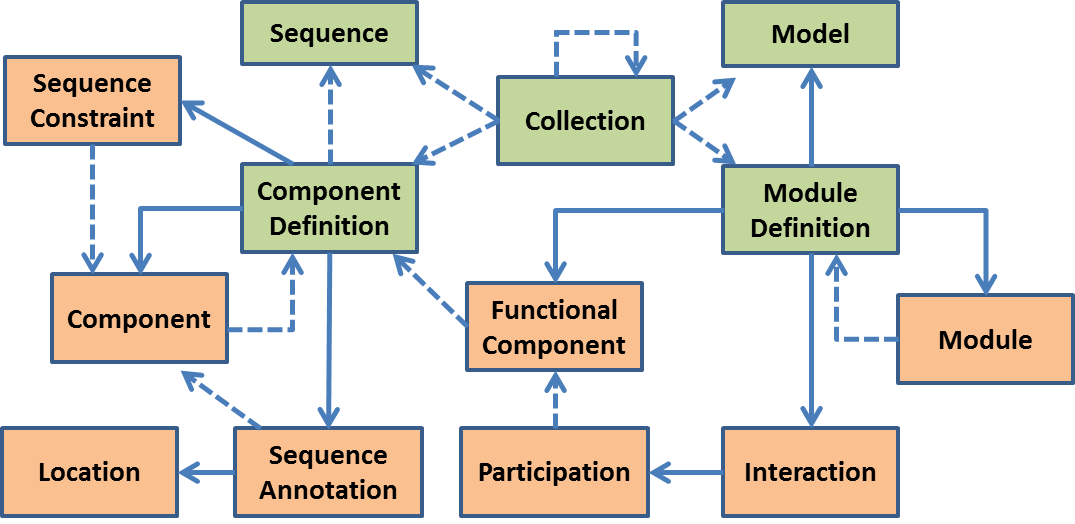
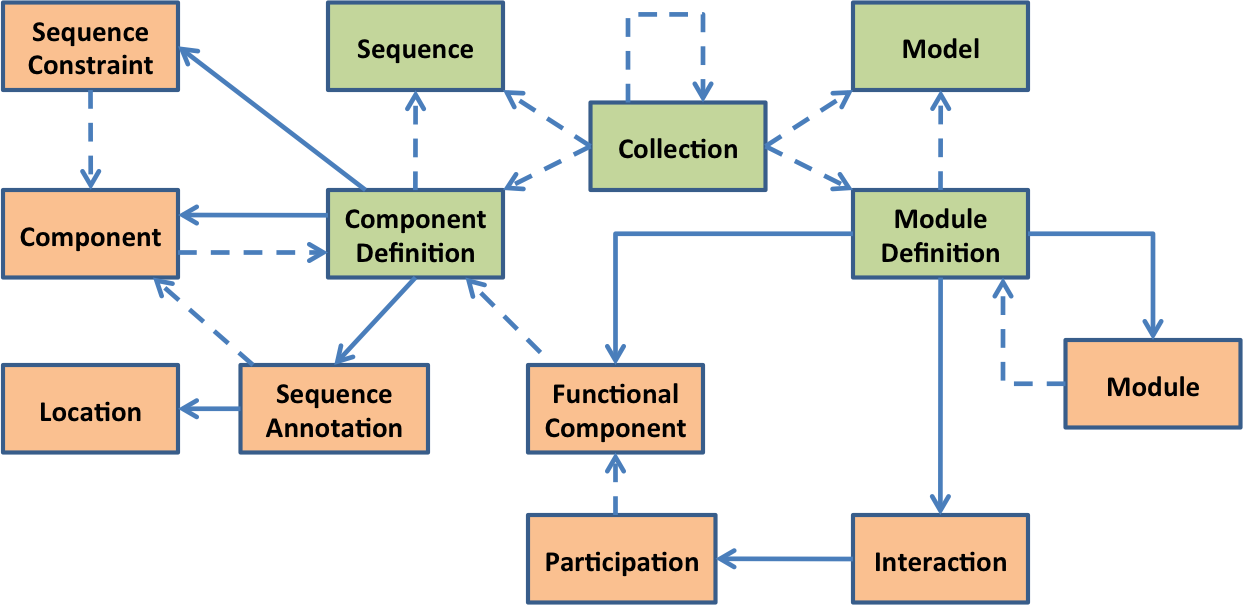
Update on Overleaf.

diff --git a/overview.tex b/overview.tex
@@ -2,57 +2,42 @@
 \section{Overview of SBOL}
 % % -----------------------------------------------------------------------------
 
-\LDtodo{under construction....
+\Rtodo{I took a stab at revising this especially in explaining Figure 2. Needs review.  -CJM}
 
-
-The only content to keep is some version of Figure 2, -- jhg }
-
-\Rtodo{I went through and did some light editing to the text. Excellent job John! I also added some references that were needed in the text - KC }
-
-Synthetic biology designs can be described using both structural and functional terms:
+Synthetic biology designs can be described using:
 \begin{itemize}
-\item We can describe the physical structure of the design, e.g., a set of sequences or information about chemical makeup.
-\item We can describe the functional roles of the design. Such a description includes both the overall function, as well as the ways that components might interact with each other.
+\item Structural terms, e.g., a set of annotated sequences or information about chemical makeup.
+\item Functional terms, e.g., the way that components might interact with each other and the overall behavior.
 \end{itemize}
-In broad strokes, SBOL 1.1 focuses on physical, structural information, whereas SBOL 2.0 includes functional aspects. The physical information about a designed genetic circuit includes the order of its constituents and their descriptions. The exact locations of these constituents and their sequences allow genetic circuits to be defined unambiguously, and reused in other designs. SBOL 2.0 extends v1.1 in several ways: it allows for functional descriptions of the design and its interaction, and it extends physical descriptions to include entities beyond DNA sequences. 
+In broad strokes, SBOL 1.1 focuses on physical, structural information, whereas SBOL 2.0 includes functional aspects. The physical information about a designed genetic circuit includes the order of its constituents and their descriptions. The exact locations of these constituents and their sequences allow genetic circuits to be defined unambiguously, and reused in other designs. SBOL 2.0 extends SBOL 1.1 in several ways: it extends physical descriptions to include entities beyond DNA sequences, and it allows for functional descriptions of the design. 
 
 As an example, consider the design of an expression cassette, such as found in the plasmid pUC18 \cite{L08752.1}, a device that is designed to detect successful versus unsuccessful molecular cloning. As an overall system, the device is designed to grow either blue-colored (unsuccessful) or white-colored (successful) colonies in the presence of IPTG and the chemical X-gal. Internally, the device has a number of parts, including a promoter, the lac repressor binding site, and the lacZ coding sequence. These parts have specific component-level interactions with IPTG and X-gal, as well as native host gene products, transcriptional and translational machinery that collectively lead to the desired system-level behavior. 
 
 Understanding how such a device works within the context of a host and how it might be adapted to new experimental applications is currently passed on through working with fellow scientists or reading articles in papers and books. But there is no systematic way of communicating the integration of sequence with functional design, so users typically have to look in many different places to develop an understanding of this system.  
 The SBOL standard allows designers to describe these functional characteristics, and to connect them to the physical parts and sequences that make up the design. 
 
-SBOL includes main classes that match the structural/physical distinction above:
+SBOL includes two main classes that match the structural/functional distinction above:
 \begin{itemize}
 \item The \sbol{ComponentDefinition} object describes the physical aspects of the designed system, such as the DNA or RNA sequences and the physical relationships among sub-components.
 \item The \sbol{ModuleDefinition} object describes the local interactions of the designed system, such as specific binding relationships, and repression and activation relationships. 
 \end{itemize}
 
-Figure 1 shows a simplified view of these classes, as well as other helper classes in SBOL. To continue with the pUC18 example, the description would begin by creating a top-level \sbol{ModuleDefinition}. This object could then point to a \sbol{Model} object if it exists, for example, an SBML model of the behavior of this design. The \sbol{ModuleDefinition} would also include a number of \sbol{ComponentDefinition} objects. These would specify the structural elements that make up the cassette. Finally, the \sbol{ModuleDefinition} could specify \sbol{Interaction} objects that describe any internal functional relationships among components. 
-
-\Rtodo{I think the paragraph above and below should be weaved together.  Also, I think you should start with the structural part then the functional part.  You should highlight that the structural part is largely 1.1 classes though they are extended.  The functional part is completely new.}
+Figure 1 shows a simplified view of these classes, as well as other helper classes in SBOL. To continue with the pUC18 example, the description would begin by creating a top-level \sbol{ModuleDefinition}.  The \sbol{ModuleDefinition} specifies the structural elements that make up the cassette by referencing a number of \sbol{ComponentDefinition} objects. These would include the DNA component for the promoter and the small molecule component for IPTG, for example.  
+The \sbol{ComponentDefinition} objects can be organized hierarchically.  For example, the plasmid \sbol{ComponentDefinition} may reference \sbol{ComponentDefinition}s for the promoter, coding sequence, etc.  
+Each \sbol{ComponentDefinition} object can also include the actual \sbol{Sequence} information (if available), as well as \sbol{SequenceAnnotation} objects that identify the locations of the promoters, coding sequences, etc., on the \sbol{Sequence}.  
+In order to specify functional information, the \sbol{ModuleDefinition} can specify \sbol{Interaction} objects that describe any qualitative relationships among components, such as how IPTG and X-gal interact with the gene projects.  Finally, \sbol{ModuleDefinition} object can point to a \sbol{Model} object that provides a reference to a complete quantitative model using a language such as SBML, CellML, Matlab, etc.  Finally, all the of elements of the genetic design can be grouped together within a \sbol{Collection}.
 
 \begin{figure}[ht]
 \begin{center}
 \includegraphics[scale=0.7]{images/OverviewFigforSpec-v6.png}
-\caption{Main classes of information represented by the SBOL standard, and their relationships.  Red boxes are classes from the 1.1 version of SBOL that focused on structure, whereas blue classes are some of the new classes that support the functional aspects of designs.}
+\caption{Main classes of information represented by the SBOL standard, and their relationships.  Red boxes are classes from the SBOL 1.1 that focused on structure, whereas blue classes are some of the new classes that support the functional aspects of designs.}
 \label{images:overview1}
 \end{center}
 \end{figure}
 
-On the structural side, the \sbol{ComponentDefinition} objects could be a simple flat list, or they could be organized into sub-components---note that both \sbol{ModuleDefinition} and \sbol{ComponentDefinition} can point to themselves, allowing for arbitrary nesting.
-\sbol{ComponentDefinition} objects also include the actual \sbol{Sequence} information (if available) as well as \sbol{SequenceAnnotation} objects that name the promoters, coding sequences, etc., as well as provide location information. 
+% SBOL aims to facilitate the communication and reuse of synthetic biology designs. Given that these designs leverage biochemical knowledge and that they ultimately affect biological systems, it is important that SBOL interacts well with other relevant standards and resources, such as GenBank \cite{genbank}, SwissProt \cite{swissprot}, SBML \cite{SBML}, ChEBI\cite{chebi}, or the Sequence Ontology \cite{so}. Thus, SBOL leverages semantic web technologies, using RDF as a serialization format, and URIs (\emph{Universal Resource Identifiers}) for its objects. URIs allow for direct and un-ambiguous reuse of designs---if a designer in Newcastle wishes to refer to a particular design built in California, he or she can simply name the URI of the ModuleDefinition that describes that design. 
 
-% The high-level view of Figure 1 is meant as a simple prelude to the full specification of SBOL that we provide in the next section. Importantly, our specification uses the UML (Unified Modeling Language) and Figure 1 is NOT a UML diagram. Figure 2 shows... 
-
-\Rtodo{I think the reader does not even know we will be talking about UML yet - I don't see an expectation that this should be XML - KC, Agreed, text above seems unnecessary here.}
-
-\Rtodo{Do you even need Figure 2 at this point? We've provided a high level overview, but not gone into details. Do we need to? - KC Yes, we do need the more detailed description here.  This section is meant to ease the readers into the data model.  It is being done in stages with the second diagram expanding the details.  The main point of the expanded figure will be to introduce the "tricky" concept of instantiations which is very important going forward.}
-
-\Ctodo{Need explanation of Figure 2 here.  Also, need Figure 2 to be updated to follow style of Figure 1.}
-
-SBOL aims to facilitate the communication and reuse of synthetic biology designs. Given that these designs leverage biochemical knowledge and that they ultimately affect biological systems, it is important that SBOL interacts well with other relevant standards and resources, such as GenBank \cite{genbank}, SwissProt \cite{swissprot}, SBML \cite{SBML}, ChEBI\cite{chebi}, or the Sequence Ontology \cite{so}. Thus, SBOL leverages semantic web technologies, using RDF as a serialization format, and URIs (\emph{Universal Resource Identifiers}) for its objects. URIs allow for direct and un-ambiguous reuse of designs---if a designer in Newcastle wishes to refer to a particular design built in California, he or she can simply name the URI of the ModuleDefinition that describes that design. 
-
-In sum, we hope that the SBOL standard will enable sharing of synthetic biology designs across the web, and allow developers to more easily build up rich, complex designs by re-using the work of others. 
+% In sum, we hope that the SBOL standard will enable sharing of synthetic biology designs across the web, and allow developers to more easily build up rich, complex designs by re-using the work of others. 
 
 
 % Figure 2 extends this view to provide a more detailed view of these classes. 
@@ -62,12 +47,13 @@ In sum, we hope that the SBOL standard will enable sharing of synthetic biology 
 % The physical structure of an element is represented with a \sbol{ComponentDefinition}, often corresponding to a particular \sbol{Sequence} (e.g., DNA, RNA, amino acids), and with its structure further described in terms of the smaller \sbol{Component} instances contained within, and their absolute and relative positions within the component.
 % Functional relationships are represented with a \sbol{ModuleDefinition}, often also described by some \sbol{Model}, and with its structure further described in terms of the smaller \sbol{Module} instances contained within, as well as particular components (designated \sbol{FunctionalComponent} to indicate their use in defining a module), and their interactions.
 
-\Ctodo{SequenceConstraint was in a simpler form in 1.1.  Actually though I think maybe we should change color scheme in this one to highlight TopLevel versus Child as before as this is an important concept for the overview.  One minor issue is some issues are crooked.}
+Figure~\ref{images:overview2} provides a more detailed view the the class structure for the SBOL 2.0 data model.  The main, or \emph{top level} classes, are \sbol{Collection}, \sbol{ComponentDefinition}, sbol{Sequence}, \sbol{ModuleDefinition}, and \sbol{Model}.  The key distinction of these classes is that they can stand alone and be referenced by other top level objects (see the dashed arrows between the green boxes).  The purpose of these classes is described above.  Each of these classes is assisted in their purpose by several \emph{child} classes.  The key distinction of a child object is that it is owned by its parent object, and if that parent object is removed, so is the child object.  This ownership is indicated using the solid arrows in the figure.  For example, a \sbol{ComponentDefinition} owns its \sbol{SequenceAnnotation}s.  Another important distinction in this diagram are the additional additional \emph{instantiation} classes, \sbol{Component}, \sbol{FunctionalComponent}, and \sbol{Module}.  As described above, a \sbol{ModuleDefinition} may include instantiations of \sbol{ComponentDefinitions}.  These instantiations are called \sbol{FunctionalComponent}s.  Furthermore, \sbol{ModuleDefinition}s and \sbol{ComponentDefinition}s can be constructed hierarchically of instantiations of the same time, and these instantiations are called \sbol{Module}s and \sbol{Component}s, respectively.  Using a software analogy, a \sbol{ComponentDefinition} or \sbol{ModuleDefinition} are a class definition while a \sbol{Component}, \sbol{FunctionalComponent}, or \sbol{Module} are an object of that class type.  Finally, one last thing to notice is that child objects can be referenced.  For example, an \sbol{Interaction} is between \sbol{FunctionalComponent} object(s) referenced through the \sbol{Participation} class.  Since this is only a reference, if an \sbol{Interaction} is removed, its \sbol{Participation} objects would be removed but not the \sbol{FunctionalComponent}s that they refer to.  Similarly, \sbol{SequenceAnnotation}s and \sbol{SequenceConstraint}s (provide relative positioning information) only refer to the \sbol{Component}s that they provide positioning information for.
+
 
 \begin{figure}[ht]
 \begin{center}
 \includegraphics[scale=0.7]{images/OverviewFig2-v3.png}
-\caption{Main classes of information represented by the SBOL standard, and their relationships.  Green boxes are ``top level'' classes, while the other classes are in support of these classes. Solid arrows indicates "contains", whereas a dashed arrow indicates that one class refers to another.}
+\caption{Main classes of information represented by the SBOL standard, and their relationships.  Green boxes are ``top level'' classes, while the other classes are in support of these classes. Solid arrows indicates "contains", whereas a dashed arrow indicates that one class refers to an object of another class.}
 \label{images:overview2}
 \end{center}
 \end{figure}

diff --git a/apdx-validation.tex b/apdx-validation.tex
@@ -18,22 +18,17 @@ following symbols next to the rule numbers:
 
 \begin{description}
 
-\item[\hspace*{6.5pt}\vSymbol\vsp] A \vSymbolName indicates a
+\item[\hspace*{6.5pt}\vSymbol\vsp] A \vSymbolName indicates a strong
   REQUIRED condition for SBOL conformance. If a SBOL document does not follow this rule, it does not conform to the SBOL
   specification.  (Mnemonic intention behind the choice of symbol:
   ``This must be checked.'')
 
-\item[\hspace*{6.5pt}\cSymbol\csp] A \cSymbolName indicates a
-  \emph{recommendation} for consistency.  
-% If a SBOL document does not
-%  follow this rule, it is not considered strictly invalid as far as the
-%  SBOL specification is concerned; however, it indicates that the model contains a physical or conceptual inconsistency. 
-These rules should be followed, but they are difficult, if not  impossible, to check automatically. (Mnemonic intention behind the choice of symbol: ``This is a cause for warning.'')
+\item[\hspace*{6.5pt}\cSymbol\csp] A \cSymbolName indicates a weak
+  REQUIRED condition for SBOL conformance. While this rule MUST be followed, it is difficult, if not  impossible, for a machine to automatically check whether the rule has been followed. (Mnemonic intention behind the choice of symbol: ``This is a cause for warning.'')
 
 \item[\hspace*{6.5pt}\mSymbol\msp] A \mSymbolName indicates a 
-  RECOMMENDED condition for following best practices.  This rule is not strictly
-  a matter of SBOL encoding, but the recommendation comes from logical
-  reasoning.  If an SBOL document does not follow this rule, it is still a valid SBOL encoding, but may have degraded functionality in some tools.  (Mnemonic intention behind the choice of symbol: ``You're a star if you heed this.'')
+  RECOMMENDED condition for following best practices.  This rule is not strictly a matter of SBOL conformance, but its recommendation comes from logical
+  reasoning.  If an SBOL document does not follow this rule, it is still valid SBOL, but it may have degraded functionality in some tools.  (Mnemonic intention behind the choice of symbol: ``You're a star if you heed this.'')
 
 \end{description}
 
@@ -103,55 +98,54 @@ in the SBOL specification namespace.
 \subsubsection*{Rules for the \class{Sequence} class} 
 \setcounter{sbolCtr}{10401}
 
-\printValid{A \sbol{Sequence} object inherits all properties of a \sbol{TopLevel} object. (Reference: \sec{sec:Sequence})}
+\printValid{A \sbol{Sequence} MUST inherit all properties of the \sbol{TopLevel} class. (Reference: \sec{sec:Sequence})}
 
-\printValid{The \sbol{elements} is a REQUIRED property for all \sbol{Sequence} objects and has a data type of String. (Reference: \sec{sec:Sequence})}
+\printValid{The \sbol{elements} property of a \sbol{Sequence} is REQUIRED and MUST contain a \external{String}. (Reference: \sec{sec:Sequence})}
 
-\printValid{The \sbol{encoding} is a REQUIRED property for all \sbol{Sequence} objects and has a data type of \sbol{URI}. (Reference: \sec{sec:Sequence})}
+\printValid{The \sbol{encoding} property of \sbol{Sequence} is REQUIRED and MUST contain a \external{URI}. (Reference: \sec{sec:Sequence})}
 
-\printWarning{The \sbol{elements} format MUST be consistent with its specified \sbol{encoding}. (Reference: \sec{sec:Sequence})}
+\printWarning{The \sbol{encoding} property of a \sbol{Sequence} MUST contain a \external{URI} from \ref{tbl:sequence_encodings} if it is well-described by this \external{URI}. (Reference: \sec{sec:Sequence})}
 
-\printModeling{A DNA \sbol{Sequence} SHOULD use the IUPAC DNA encoding:\\ \url{http://www.chem.qmul.ac.uk/iubmb/misc/naseq.html}. (Reference: \sec{sec:Sequence})}
-
-\printModeling{A RNA \sbol{Sequence} SHOULD use the IUPAC RNA encoding:\\ \url{http://www.chem.qmul.ac.uk/iubmb/misc/naseq.html}. (Reference: \sec{sec:Sequence})}
-
-\printModeling{A protein \sbol{Sequence} SHOULD use the IUPAC Protein encoding:\\ \url{http://www.chem.qmul.ac.uk/iupac/AminoAcid/}. (Reference: \sec{sec:Sequence})}
-
-\printModeling{A small molecule \sbol{Sequence} SHOULD use the SMILES encoding:\\ \url{http://www.opensmiles.org/opensmiles.html}. (Reference: \sec{sec:Sequence})}
+\printWarning{The \sbol{elements} property of a \sbol{Sequence} MUST be consistent with its \sbol{encoding} property. (Reference: \sec{sec:Sequence})}
 
 \subsubsection*{Rules for the \class{ComponentDefinition} class} 
 \setcounter{sbolCtr}{10501}
 
-\printValid{A \sbol{ComponentDefinition} object inherits all properties of a \sbol{TopLevel} object. (Reference: \sec{sec:ComponentDefinition})}
+\printValid{A \sbol{ComponentDefinition} MUST inherit all properties of the \sbol{TopLevel} class. (Reference: \sec{sec:ComponentDefinition})}
 
-\printValid{The \sbolmult{types:CD}{types} property is a set of \sbol{URI}s, and it is REQUIRED to include at least one entry. (Reference: \sec{sec:ComponentDefinition})}
+\printValid{The \sbolmult{types:CD}{types} property of a \sbol{ComponentDefinition} is REQUIRED and MUST contain a non-empty set of \external{URI}s. (Reference: \sec{sec:ComponentDefinition})}
 
-\printValid{The \sbolmult{roles:CD}{roles} property is an OPTIONAL set of \sbol{URI}s.  (Reference: \sec{sec:ComponentDefinition})}
+\printWarning{Each \external{URI} contained by the \sbolmult{types:CD}{types} property of a \sbol{ComponentDefinition} MUST refer to an ontology term that describes the category of biochemical or physical entity that is represented by the \sbol{ComponentDefinition}. (Reference: \sec{sec:ComponentDefinition})}
 
-\printValid{The \sbol{components} property is an OPTIONAL set of \sbol{Component} objects.  (Reference: \sec{sec:ComponentDefinition})}
+\printWarning{All \external{URI}s contained by the \sbolmult{types:CD}{types} property of a \sbol{ComponentDefinition} MUST refer to synonymous ontology terms. (Reference: \sec{sec:ComponentDefinition})}
 
-\printValid{The \sbol{sequenceConstraints} property is an OPTIONAL set of \sbol{SequenceConstraint} objects.  (Reference: \sec{sec:ComponentDefinition})}
+\printWarning{The \sbolmult{types:CD}{types} property of a \sbol{ComponentDefinition} MUST contain a \external{URI} from \ref{tbl:componentdefinition_types} if it is well-described by this \external{URI}. (Reference: \sec{sec:ComponentDefinition})}
 
-\printValid{The \sbol{sequenceAnnotations} property is an OPTIONAL set of \sbol{SequenceAnnotation} objects.  (Reference: \sec{sec:ComponentDefinition})}
+\printValid{The \sbolmult{roles:CD}{roles} property of a \sbol{ComponentDefinition} is OPTIONAL and MAY contain a set of \sbol{URI}s. (Reference: \sec{sec:ComponentDefinition})}
 
-\printValid{The \sbol{sequences} property is an OPTIONAL set of \sbol{URI} references to \sbol{Sequence} objects.  (Reference: \sec{sec:ComponentDefinition})}
+\printWarning{Each \external{URI} contained by the \sbolmult{roles:CD}{roles} property of a \sbol{ComponentDefinition} MUST refer to an ontology term that clarifies the potential function of the \sbol{ComponentDefinition} in a biochemical or physical context. (Reference: \sec{sec:ComponentDefinition})}
 
-\printModeling{Each \sbol{URI} in the set of \sbol{sequences} SHOULD reference an equivalent \sbol{Sequence} object.  (Reference: \sec{sec:Sequence})}
+\printWarning{Each \external{URI} contained by the \sbolmult{roles:CD}{roles} property of a \sbol{ComponentDefinition} MUST refer to an ontology term that is consistent with its \sbolmult{types:CD}{types} property. (Reference: \sec{sec:ComponentDefinition})}
 
-\printWarning{A DNA \sbol{ComponentDefinition} MUST include the \sbol{URI}\\ 
-\url{http://www.biopax.org/release/biopax-level3.owl\#DnaRegion} 
-in the set of \sbolmult{types:CD}{types}.  (Reference: \sec{sec:ComponentDefinition})}
+\printModeling{The \sbolmult{roles:CD}{roles} provided in \ref{tbl:componentdefinition_roles} SHOULD apply to \sbol{ComponentDefinition} objects of the corresponding \sbolmult{types:CD}{types} listed in this table. (Reference: \sec{sec:ComponentDefinition})}
 
-\printWarning{A RNA \sbol{ComponentDefinition} MUST include the \sbol{URI}\\ 
-\url{http://www.biopax.org/release/biopax-level3.owl\#RnaRegion} in the set of \sbolmult{types:CD}{types}.  (Reference: \sec{sec:ComponentDefinition})}
+\printWarning{The \sbolmult{roles:CD}{roles} property of a \sbol{ComponentDefinition} MUST contain a \external{URI} from \ref{tbl:componentdefinition_roles} if it is well-described by this \external{URI}. (Reference: \sec{sec:ComponentDefinition})}
 
-\printWarning{A protein \sbol{ComponentDefinition} MUST include the \sbol{URI}\\ 
-\url{http://www.biopax.org/release/biopax-level3.owl\#Protein} in the set of \sbolmult{types:CD}{types}.  (Reference: \sec{sec:ComponentDefinition})}
+\printValid{The \sbol{sequences} property of a \sbol{ComponentDefinition} is OPTIONAL and MAY contain a set of \sbol{URI} references to \sbol{Sequence} objects. (Reference: \sec{sec:ComponentDefinition})}
 
-\printWarning{A small molecule \sbol{ComponentDefinition} MUST include the \sbol{URI}\\ 
-\url{http://www.biopax.org/release/biopax-level3.owl\#SmallMolecule} in the set of \sbolmult{types:CD}{types}.  (Reference: \sec{sec:ComponentDefinition})}
+\printWarning{The \sbol{Sequence} objects referred to by the \sbol{sequences} property of a \sbol{ComponentDefinition} MUST be consistent with each other, such that well-defined mappings exist between their \sbol{elements} properties in accordance with their \sbol{encoding} properties. (Reference: \sec{sec:ComponentDefinition})}
 
-\printModeling{A least one type in the set of \sbolmult{types:CD}{types} SHOULD be a \sbol{URI} from the BioPAX or ChEBI ontologies. (Reference: \sec{sec:ComponentDefinition})}
+\printValid{The \sbol{sequences} property of a \sbol{ComponentDefinition} MUST NOT refer to more than one \sbol{Sequence} with an \external{IUPAC} \sbol{encoding} from \ref{tbl:sequence_encodings}. (Reference: \sec{sec:ComponentDefinition})}
+
+\printValid{If the \sbol{sequences} property of a \sbol{ComponentDefinition} refers to one or more \sbol{Sequence} objects, and the \sbolmult{types:CD}{types} property of the \sbol{ComponentDefinition} contains a \external{URI} that refers to a type from \ref{tbl:componentdefinition_types}, then one of these \sbol{Sequence} objects MUST have an \sbol{encoding} property that contains the \external{URI} from \ref{tbl:sequence_encodings} that is cross-listed with this type. (Reference: \sec{sec:ComponentDefinition})}
+
+\printValid{If the \sbol{sequences} property of a \sbol{ComponentDefinition} refers to a \sbol{Sequence} and the \sbol{encoding} property of this \sbol{Sequence} contains a \external{URI} from \ref{tbl:sequence_encodings}, then the \sbolmult{types:CD}{types} property of the \sbol{ComponentDefinition} MUST contain a \external{URI} that refers to the type that is cross-listed in \ref{tbl:sequence_encodings}. (Reference: \sec{sec:ComponentDefinition})}
+
+\printValid{The \sbol{components} property of a \sbol{ComponentDefinition} is OPTIONAL and MAY contain a set of \sbol{Component} objects. (Reference: \sec{sec:ComponentDefinition})}
+
+\printValid{The \sbol{sequenceAnnotations} property of a \sbol{ComponentDefinition} is OPTIONAL and MAY contain a set of \sbol{SequenceAnnotation} objects.  (Reference: \sec{sec:ComponentDefinition})}
+
+\printValid{The \sbol{sequenceConstraints} property of a \sbol{ComponentDefinition} is OPTIONAL and MAY contain a set of \sbol{SequenceConstraint} objects.  (Reference: \sec{sec:ComponentDefinition})}
 
 \subsubsection*{Rules for the \class{ComponentInstance} class} 
 \setcounter{sbolCtr}{10601}

diff --git a/model.tex b/model.tex
@@ -330,7 +330,7 @@ Finally, if the \sbolmult{types:CD}{types} property contains multiple \sbol{URIs
 \subsubsection*{The \sbolheading{roles} property}
 \label{sec:roles:CD}
 
-The \sbolmult{roles:CD}{roles} property is an OPTIONAL set of \sbol{URI}s that clarifies the potential function of a \sbol{ComponentDefinition} in a biological context.
+The \sbolmult{roles:CD}{roles} property is an OPTIONAL set of \sbol{URI}s that clarifies the potential function of an entity in a biochemical or physical context.
 
 The \sbolmult{roles:CD}{roles} property of a \sbol{ComponentDefinition} MAY contain one or more \sbol{URI}s that MUST identify terms from ontologies that are consistent with the \sbolmult{types:CD}{types} property of the \sbol{ComponentDefinition}.
 For example, the \sbolmult{roles:CD}{roles} property of a DNA or RNA \sbol{ComponentDefinition} could contain \sbol{URI}s identifying terms from the Sequence Ontology (SO). 
@@ -366,7 +366,7 @@ Many \sbol{ComponentDefinition} objects will refer to precisely one \sbol{Sequen
 
 If a \sbol{ComponentDefinition} refers to more than one \sbol{Sequence} object, then these objects MUST be consistent with each other, such that well-defined mappings exist between their \sbol{elements} properties in accordance with their \sbol{encoding} properties. In addition, a \sbol{ComponentDefinition} MUST NOT refer to more than one \sbol{Sequence} with an \external{IUPAC} \sbol{encoding} (see \ref{tbl:sequence_encodings}). 
 
-Finally, if a \sbol{ComponentDefinition} refers to one or more \sbol{Sequence} objects and its \sbolmult{types:CD}{types} property refers to a term from \ref{tbl:componentdefinition_types}, then at least one of these \sbol{Sequence} objects MUST have the \sbol{encoding} from \ref{tbl:sequence_encodings} that corresponds to this term.  
+Finally, if a \sbol{ComponentDefinition} refers to one or more \sbol{Sequence} objects and its \sbolmult{types:CD}{types} property refers to a term from \ref{tbl:componentdefinition_types}, then at least one of these \sbol{Sequence} objects MUST have the \sbol{encoding} from \ref{tbl:sequence_encodings} that is cross-listed with this term.  
 Conversely, if a \sbol{ComponentDefinition} refers to a \sbol{Sequence} with an \sbol{encoding} from \ref{tbl:sequence_encodings}, then its \sbolmult{types:CD}{types} property MUST refer to the corresponding term from \ref{tbl:componentdefinition_types}. 
 For example, if the \sbolmult{types:CD}{types} property of a \sbol{ComponentDefinition} refers to the BioPAX term for DNA, then one of the \sbol{Sequence} objects to which it refers (if any) MUST have an \external{IUPAC DNA} \sbol{encoding}, and if a \sbol{ComponentDefinition} refers to a \sbol{Sequence} with an \external{IUPAC DNA} \sbol{encoding}, then its \sbolmult{types:CD}{types} property must refer to the BioPAX term for DNA.
 
